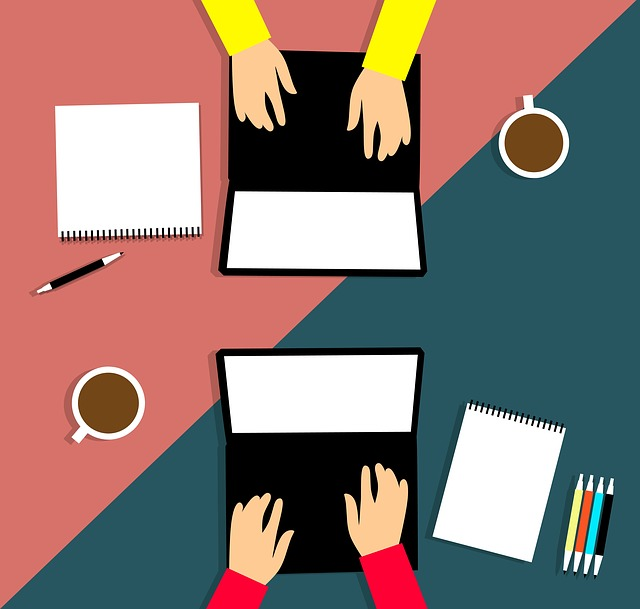
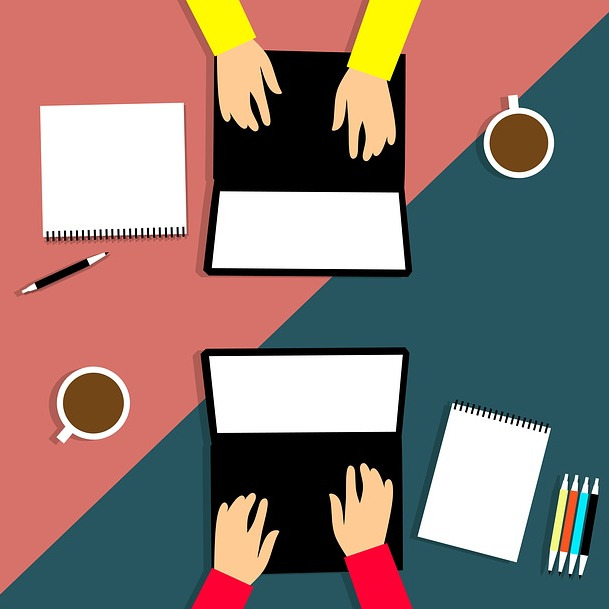
Crop the pictures for better display on mobiles

diff --git a/static/assets/front.css b/static/assets/front.css
@@ -9,5 +9,5 @@
  */@font-face{font-family:'Font Awesome 5 Free';font-style:normal;font-weight:900;src:url(/static/assets/fa-solid-900.eot);src:url(/static/assets/fa-solid-900.eot?#iefix) format("embedded-opentype"),url(/static/assets/fa-solid-900.woff2) format("woff2"),url(/static/assets/fa-solid-900.woff) format("woff"),url(/static/assets/fa-solid-900.ttf) format("truetype"),url(/static/assets/fa-solid-900.svg#fontawesome) format("svg")}.fa,.fas{font-family:'Font Awesome 5 Free';font-weight:900}/*!
  * Font Awesome Free 5.3.1 by @fontawesome - https://fontawesome.com
  * License - https://fontawesome.com/license/free (Icons: CC BY 4.0, Fonts: SIL OFL 1.1, Code: MIT License)
- */@font-face{font-family:'Font Awesome 5 Brands';font-style:normal;font-weight:normal;src:url(/static/assets/fa-brands-400.eot);src:url(/static/assets/fa-brands-400.eot?#iefix) format("embedded-opentype"),url(/static/assets/fa-brands-400.woff2) format("woff2"),url(/static/assets/fa-brands-400.woff) format("woff"),url(/static/assets/fa-brands-400.ttf) format("truetype"),url(/static/assets/fa-brands-400.svg#fontawesome) format("svg")}.fab{font-family:'Font Awesome 5 Brands'}.circle-img{overflow:hidden;border-radius:100%;margin:auto;max-height:450px;max-width:600px}.circle-img img{top:0;left:0;-o-object-fit:cover;object-fit:cover}@media (max-width: 1199.98px){.circle-img{height:50vw;width:50vw}}header.masthead{position:relative;overflow:hidden}header.masthead .masthead-container{z-index:1;background-color:rgba(0,0,0,0.25);position:relative;padding-top:calc(7rem + 72px);padding-bottom:7rem}header.masthead .masthead-container .masthead-content .masthead-heading{font-size:4rem}header.masthead .masthead-container .masthead-content .masthead-subheading{font-size:2rem}header.masthead .masthead-cover{-webkit-filter:blur(5px);filter:blur(5px);min-width:100%;-o-object-fit:cover;object-fit:cover;-o-object-position:top;object-position:top;position:absolute;bottom:0;left:0}@media (min-width: 992px){header.masthead.masthead-container{padding-top:calc(10rem + 55px);padding-bottom:10rem}header.masthead.masthead-container .masthead-content .masthead-heading{font-size:6rem}header.masthead.masthead-container .masthead-content .masthead-subheading{font-size:4rem}}.download-links{padding-top:3rem}.download-links .btn{color:white;background-color:rgba(108,117,125,0.5);border:1px solid rgba(108,117,125,0.7)}.download-links .btn:hover{color:black;background-color:white;border:1px solid rgba(255,255,255,0.7)}
+ */@font-face{font-family:'Font Awesome 5 Brands';font-style:normal;font-weight:normal;src:url(/static/assets/fa-brands-400.eot);src:url(/static/assets/fa-brands-400.eot?#iefix) format("embedded-opentype"),url(/static/assets/fa-brands-400.woff2) format("woff2"),url(/static/assets/fa-brands-400.woff) format("woff"),url(/static/assets/fa-brands-400.ttf) format("truetype"),url(/static/assets/fa-brands-400.svg#fontawesome) format("svg")}.fab{font-family:'Font Awesome 5 Brands'}header.masthead{position:relative;overflow:hidden}header.masthead .masthead-container{z-index:1;background-color:rgba(0,0,0,0.25);position:relative;padding-top:calc(7rem + 72px);padding-bottom:7rem}header.masthead .masthead-container .masthead-content .masthead-heading{font-size:4rem}header.masthead .masthead-container .masthead-content .masthead-subheading{font-size:2rem}header.masthead .masthead-cover{-webkit-filter:blur(5px);filter:blur(5px);min-width:100%;-o-object-fit:cover;object-fit:cover;-o-object-position:top;object-position:top;position:absolute;bottom:0;left:0}@media (min-width: 992px){header.masthead.masthead-container{padding-top:calc(10rem + 55px);padding-bottom:10rem}header.masthead.masthead-container .masthead-content .masthead-heading{font-size:6rem}header.masthead.masthead-container .masthead-content .masthead-subheading{font-size:4rem}}.download-links{padding-top:3rem}.download-links .btn{color:white;background-color:rgba(108,117,125,0.5);border:1px solid rgba(108,117,125,0.7)}.download-links .btn:hover{color:black;background-color:white;border:1px solid rgba(255,255,255,0.7)}
 

diff --git a/index.html b/index.html
@@ -55,9 +55,7 @@
         <div class="row align-items-center">
           <div class="col-lg-6">
             <div class="p-5">
-              <div class="circle-img">
-                <img src="static/assets/laptops-small.jpg" alt="" />
-              </div>
+              <img class="img-fluid rounded-circle" src="static/assets/laptops-small.jpg" alt="" />
             </div>
           </div>
           <div class="col-lg-6">
@@ -75,14 +73,12 @@
         <div class="row align-items-center">
           <div class="col-lg-6 order-lg-2">
             <div class="p-5">
-              <div class="circle-img">
-                <img src="static/assets/pill-small.jpeg" alt="" />
-              </div>
+              <img class="img-fluid rounded-circle" src="static/assets/pill-small.jpeg" alt="" />
             </div>
           </div>
           <div class="col-lg-6 order-lg-1">
             <div class="p-5">
-              <h2 class="display-4">It only takes a pill...</h2>
+              <h2 class="display-4">One pill for a full control.</h2>
               <p>With a pill shallowed by the person of your choice,
                 you will be able to control every of its muscle without any efforts.</p>
             </div>
@@ -96,9 +92,7 @@
         <div class="row align-items-center">
           <div class="col-lg-6">
             <div class="p-5">
-              <div class="circle-img">
-                <img src="static/assets/power-small.jpeg" alt="" />
-              </div>
+              <img class="img-fluid rounded-circle" src="static/assets/power-small.jpeg" alt="" />
             </div>
           </div>
           <div class="col-lg-6">

diff --git a/static/scss/front.scss b/static/scss/front.scss
@@ -14,6 +14,5 @@
 @import "~@fortawesome/fontawesome-free/scss/solid";
 @import "~@fortawesome/fontawesome-free/scss/brands";
 
-@import "components/circle-picture-frame";
 @import "components/masthead";
 @import "layouts/landing";
